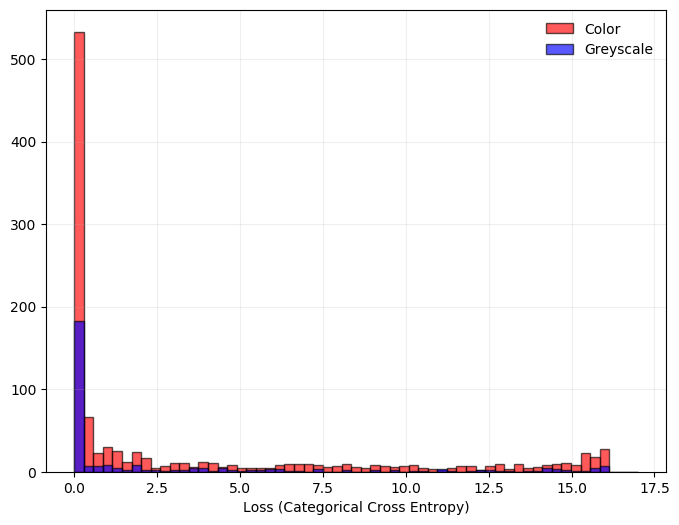
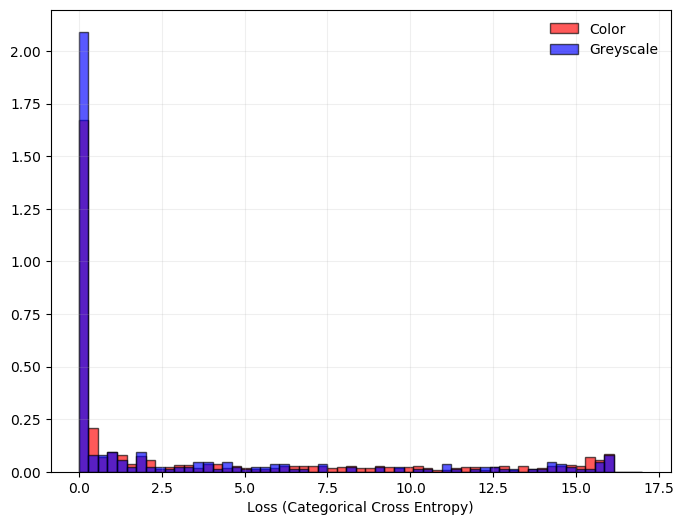
updating histogram

diff --git a/supervised/evaluate_model.py b/supervised/evaluate_model.py
@@ -84,7 +84,8 @@ def plot_greyscale_loss(images, name):
         edgecolor='k',
         color='red',
         alpha=0.65,
-        label='Color'
+        label='Color',
+        density=True
     )
     plt.hist(
         images[images['greyscale'] == 1]['loss'],
@@ -92,7 +93,8 @@ def plot_greyscale_loss(images, name):
         edgecolor='k',
         color='blue',
         alpha=0.65,
-        label='Greyscale'
+        label='Greyscale',
+        density=True
     )
     plt.grid(alpha=0.2)
     plt.xlabel('Loss (Categorical Cross Entropy)')
